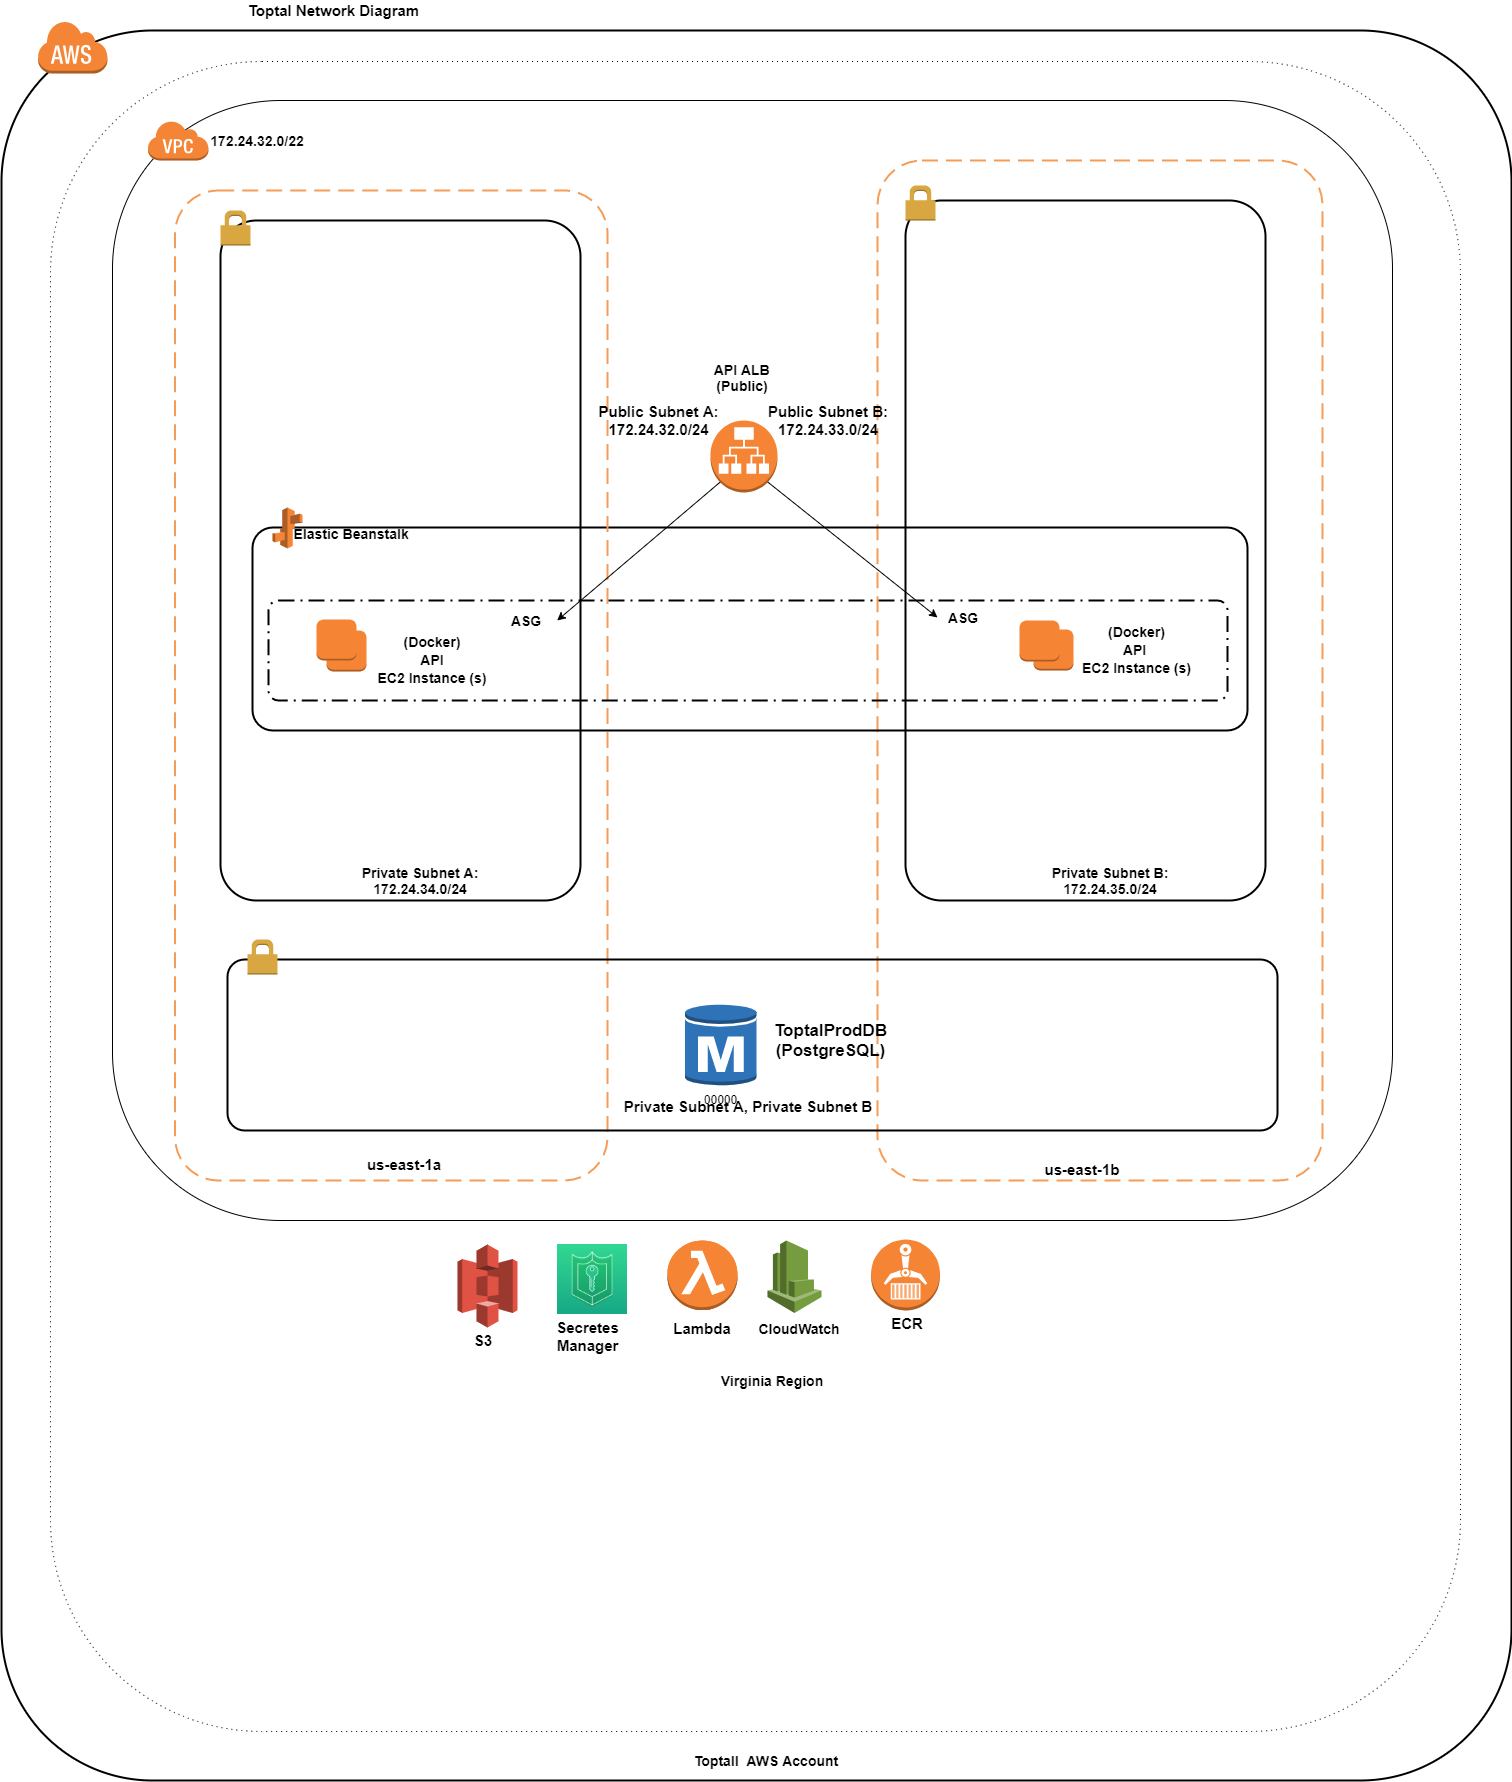
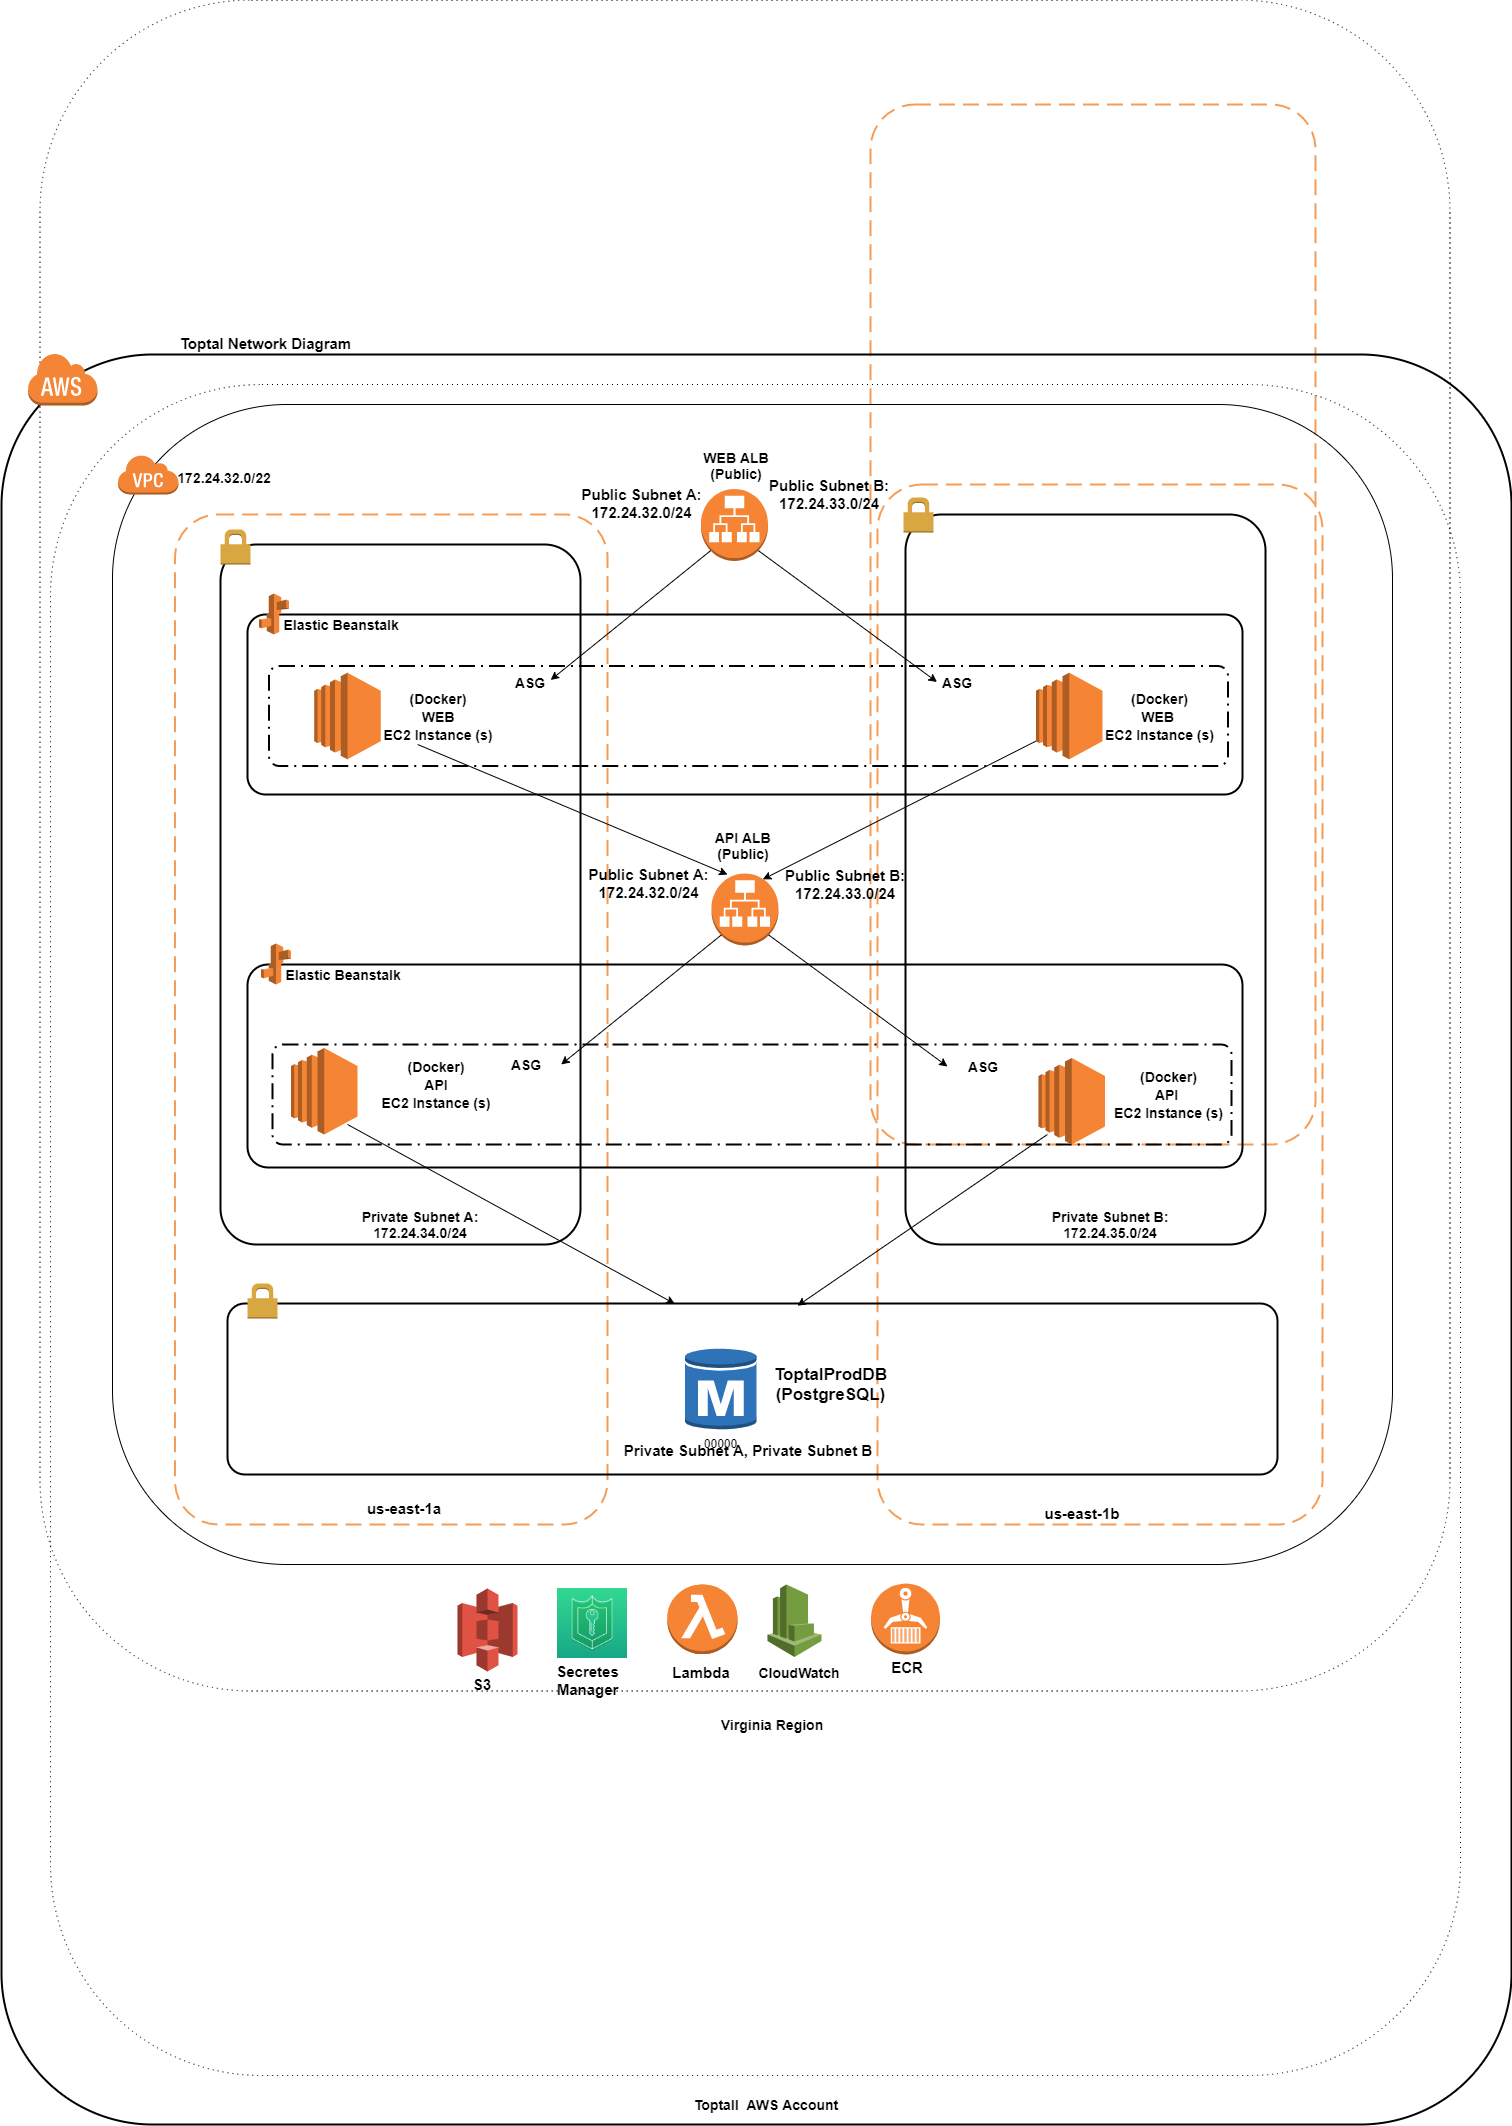
Documentation update and some minor changes

diff --git a/README.md b/README.md
@@ -25,10 +25,13 @@ The folders `web` and `api` respectively describe how to install and run each ap
 
 ## Configuration steps
 
-Here are the prerequisites for infrastructure creation and provisiniong of aws resources:
+In this application, we are using AWS Cloudformation, Bash Script, AWSCLI tools for building infrastructure (Infrastructure-as-Code) and Gitlab, AWSEBCLI as CI/CD, Version control tool.
+
+So, here are the prerequisites for infrastructure creation and provisioning of aws resources:
 - AWS account
 - GitLab account
-- awscli tool
+- awscli, awsebcli tools
+
 
 After finishing <a href="checklist.md">checklist of items</a>, run the command on your local machine and hit enter
 ```
@@ -66,22 +69,33 @@ aws secretsmanager delete-secret --secret-id PROD/Toptal/WebEB --force-delete-wi
 aws secretsmanager delete-secret --secret-id PROD/Toptal/DBCred --force-delete-without-recovery --profile ToptalAdmin
 ```
 
-To convert files format from Windows to Unix:
+Ensure that there is no S3 bucket named 'toptal-website-virginia' in virginia region. If you think that is needed and being used by other projects, launch the stack with different S3 bucket name in <a href="cloudformation/vars.sh">cloudformation/vvars.sh</a> file
+
+Create 2 ECR repos for hosting Api and Web docker container images by running below commands:
+ ```
+aws ecr create-repository --repository-name toptal-api --profile ToptalAdmin
+aws ecr create-repository --repository-name toptal-web --profile ToptalAdmin
+ ```
+
+Setup Gitlab variables for CI/CD (api & web)
+ ```
+AWS_ACCESS_KEY_ID        xxxxxxxxxxxx
+AWS_SECRET_ACCESS_KEY    xxxxxxxx
+AWS_BASE_REGION          us-east-1
+DEPLOY_TIER              allowed valuse are: Web / Api / Both
+ECR_API_REPO_URL         894541307925.dkr.ecr.us-east-1.amazonaws.com/toptal-api
+ECR_WEB_REPO_URL         894541307925.dkr.ecr.us-east-1.amazonaws.com/toptal-web
 ```
-find . -type f -name "*.sh" | xargs dos2unix $1
-```
+<img src="cloudformation/img/gitlab-settings-png.png"
+     alt="Architecture diagram"
+     style="float: left; margin-right: 10px;" />
+
 
 Useful commands:
 ``` 
 aws elasticbeanstalk list-available-solution-stacks --profile ToptalAdmin | grep -i node
 Output:  64bit Amazon Linux 2018.03 v4.14.1 running Node.js
 ```
-
-------------------
-fix: 
-     ssh is open for eb instances -- done?
- 
- 
 
 Reference for postgresql DB Setup: 
 ```
@@ -92,18 +106,9 @@ Reference for setting up WAF rules
 https://docs.aws.amazon.com/solutions/latest/aws-waf-security-automations/template.html
 ```
 
-Gitlab variables for CI/CD (api & web)
- ```
-AWS_ACCESS_KEY_ID        xxxxxxxxxxxx
-AWS_SECRET_ACCESS_KEY    xxxxxxxx
-AWS_BASE_REGION           us-east-1
-DEPLOY_TIER              allowed valuse are: Web / Api / Both
-ECR_API_REPO_URL             894541307925.dkr.ecr.us-east-1.amazonaws.com/toptal-api
-ECR_WEB_REPO_URL             894541307925.dkr.ecr.us-east-1.amazonaws.com/toptal-web
+To convert files format from Windows to Unix:
 ```
-<img src="cloudformation/img/gitlab-settings-png.png"
-     alt="Architecture diagram"
-     style="float: left; margin-right: 10px;" />
-
+find . -type f -name "*.sh" | xargs dos2unix $1
+```
 
 

diff --git a/checklist.md b/checklist.md
@@ -7,6 +7,7 @@ Checklist of items for kicking off the project in Virginia location of AWS accou
 - Create keypair with name 'toptal-screening' and save keys on secure location like Google Drive with private access
 - Create a GitLab repo for Web Application code to deploy
 
+
 On local machine:
 -----------------
 
@@ -17,5 +18,9 @@ On local machine:
 ```
 aws --version
 ```
-- Determine values for cloudformation/vars.sh and save it 
+- Determine values for <a href="cloudformation/vars.sh">cloudformation/vvars.sh</a> and save it 
+- Ensure that there is no S3 bucket named 'toptal-website-virginia' in virginia region. If you think that is needed and being used by other projects, launch the stack with different S3 bucket name in <a href="cloudformation/vars.sh">cloudformation/vvars.sh</a> file
+
+
 - Generate ssh key pair by following instructions on https://help.github.com/en/articles/generating-a-new-ssh-key-and-adding-it-to-the-ssh-agent
+
